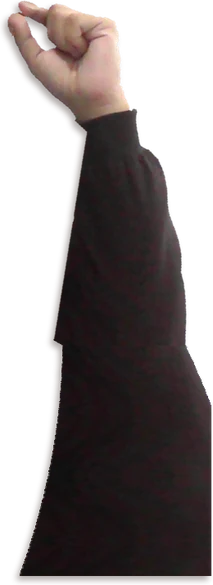
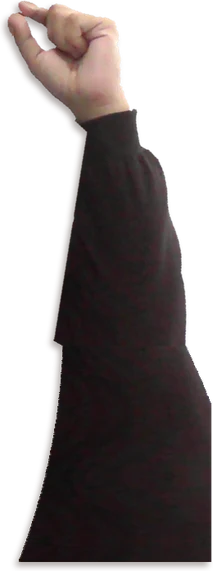
Sit the sunglasses on the ears, not the eyebrows
Zoomed in, the temples floated above the ear. Both layers and the grip
point drop 2.5% of the photo's width, so the lenses cover the eyes, the
temples meet the ear tops and the fingers stay on the frame.

diff --git a/components/ProfileShades.vue b/components/ProfileShades.vue
@@ -5,7 +5,7 @@
       <img src="/profile-shades-glasses.webp" alt="" width="287" height="102" class="profile-shades__art" :style="GLASSES_BOX">
     </div>
     <div ref="handEl" class="profile-shades__layer">
-      <img src="/profile-shades-hand.webp" alt="" width="213" height="585" class="profile-shades__art" :style="HAND_BOX">
+      <img src="/profile-shades-hand.webp" alt="" width="213" height="571" class="profile-shades__art" :style="HAND_BOX">
     </div>
   </div>
 </template>
@@ -24,10 +24,10 @@ import { nextTick, onBeforeUnmount, onMounted, ref, watch } from 'vue'
  */
 
 /* Where each picture sits on the square photo, in % of its width */
-const GLASSES_BOX = { left: '30.56%', top: '23.75%', width: '39.86%' }
-const HAND_BOX = { left: '64.91%', top: '24.86%', width: '29.58%' }
+const GLASSES_BOX = { left: '30.56%', top: '26.25%', width: '39.86%' }
+const HAND_BOX = { left: '64.91%', top: '27.36%', width: '29.58%' }
 /** Where the fingers pinch the glasses: both layers swing around this point */
-const PINCH = '68.3% 26.1%'
+const PINCH = '68.3% 28.6%'
 
 /** A beat after a theme switch, so the page has swapped before the hand appears */
 const SWITCH_DELAY = 0.15

diff --git a/assets/profile-shades/source/2-bake.py b/assets/profile-shades/source/2-bake.py
@@ -15,7 +15,7 @@ ROT   = float(sys.argv[1]) if len(sys.argv) > 1 else -30.0
 SCALE = float(sys.argv[2]) if len(sys.argv) > 2 else 0.80
 FINISH = float(sys.argv[3]) if len(sys.argv) > 3 else 0.82   # the whole layer, hand and sleeve alike
 RENDER = 720                      # the photo's baking width, as in the SVG sources
-PX, PY = 0.683*RENDER, 0.261*RENDER
+PX, PY = 0.683*RENDER, 0.286*RENDER
 SKIN_TARGET = np.array([200.0, 165.0, 150.0])   # the portrait's cheek, a shade darker
 SLEEVE_LEAN = 13.0                              # the forearm's lean where the photo runs out
 SLEEVE_FLARE = 0.9                              # how much wider the sleeve gets by the bottom
@@ -139,7 +139,7 @@ import os; print('webp bytes', os.path.getsize(BAKE+'/profile-shades-hand.webp')
 base = Image.open('public/profile.webp').convert('RGBA').resize((RENDER,RENDER), Image.LANCZOS)
 gl = Image.open('public/profile-shades-glasses.webp').convert('RGBA')
 gw = round(RENDER*0.3986); gl = gl.resize((gw, round(gl.height*gw/gl.width)), Image.LANCZOS)
-base.alpha_composite(gl, (round(RENDER*0.3056), round(RENDER*0.2375)))
+base.alpha_composite(gl, (round(RENDER*0.3056), round(RENDER*0.2625)))
 base.alpha_composite(final, (round(left/100*RENDER), round(top/100*RENDER)))
 mask = Image.new('L', base.size, 0)
 from PIL import ImageDraw; ImageDraw.Draw(mask).ellipse((0,0,RENDER-1,RENDER-1), fill=255)
